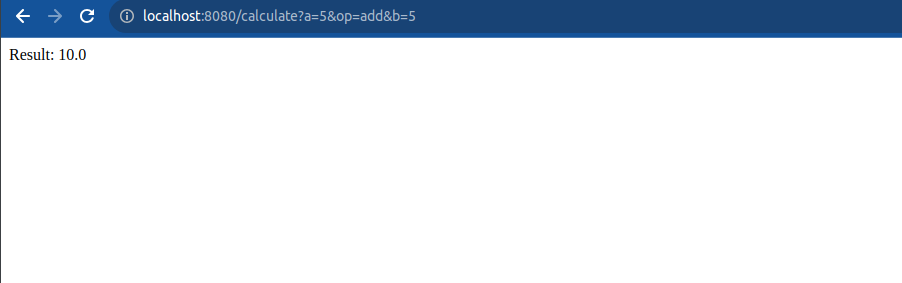
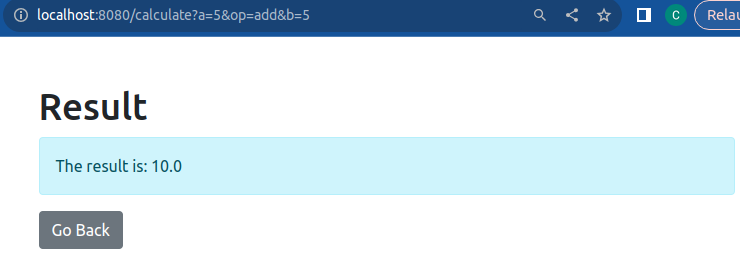
add result page html and source code in java file

diff --git a/src/main/resources/templates/result.html b/src/main/resources/templates/result.html
@@ -1,0 +1,14 @@
+<!DOCTYPE html>
+<html xmlns:th="http://www.thymeleaf.org">
+<head>
+    <title>Calculation Result</title>
+    <!-- Bootstrap CSS -->
+    <link href="https://cdn.jsdelivr.net/npm/bootstrap@5.1.3/dist/css/bootstrap.min.css" rel="stylesheet">
+</head>
+<body class="container py-5">
+<h1>Result</h1>
+<!-- Display result -->
+<p class="alert alert-info" th:text="'The result is: ' + ${result}"></p>
+<a href="/" class="btn btn-secondary">Go Back</a>
+</body>
+</html>

diff --git a/src/main/java/com/example/springbootassignment/SpringBootAssignmentApplication.java b/src/main/java/com/example/springbootassignment/SpringBootAssignmentApplication.java
@@ -3,9 +3,9 @@ package com.example.springbootassignment;
 import org.springframework.boot.SpringApplication;
 import org.springframework.boot.autoconfigure.SpringBootApplication;
 import org.springframework.stereotype.Controller;
+import org.springframework.ui.Model;
 import org.springframework.web.bind.annotation.GetMapping;
 import org.springframework.web.bind.annotation.RequestParam;
-import org.springframework.web.bind.annotation.ResponseBody;
 
 @SpringBootApplication
 @Controller
@@ -17,11 +17,11 @@ public class SpringBootAssignmentApplication {
     }
 
     @GetMapping("/calculate")
-    @ResponseBody
     public String calculate(
             @RequestParam(name = "a") double a,
             @RequestParam(name = "b") double b,
-            @RequestParam(name = "op") String operator) {
+            @RequestParam(name = "op") String operator,
+            Model model) {
         double result;
         switch (operator) {
             case "add":
@@ -37,9 +37,14 @@ public class SpringBootAssignmentApplication {
                 result = a / b;
                 break;
             default:
-                return "Invalid operator";
+                model.addAttribute("error", "Invalid operator");
+                return "error";
         }
-        return "Result: " + result;
+        model.addAttribute("result", result);
+        return "result";
     }
+
+
+
 
 }
